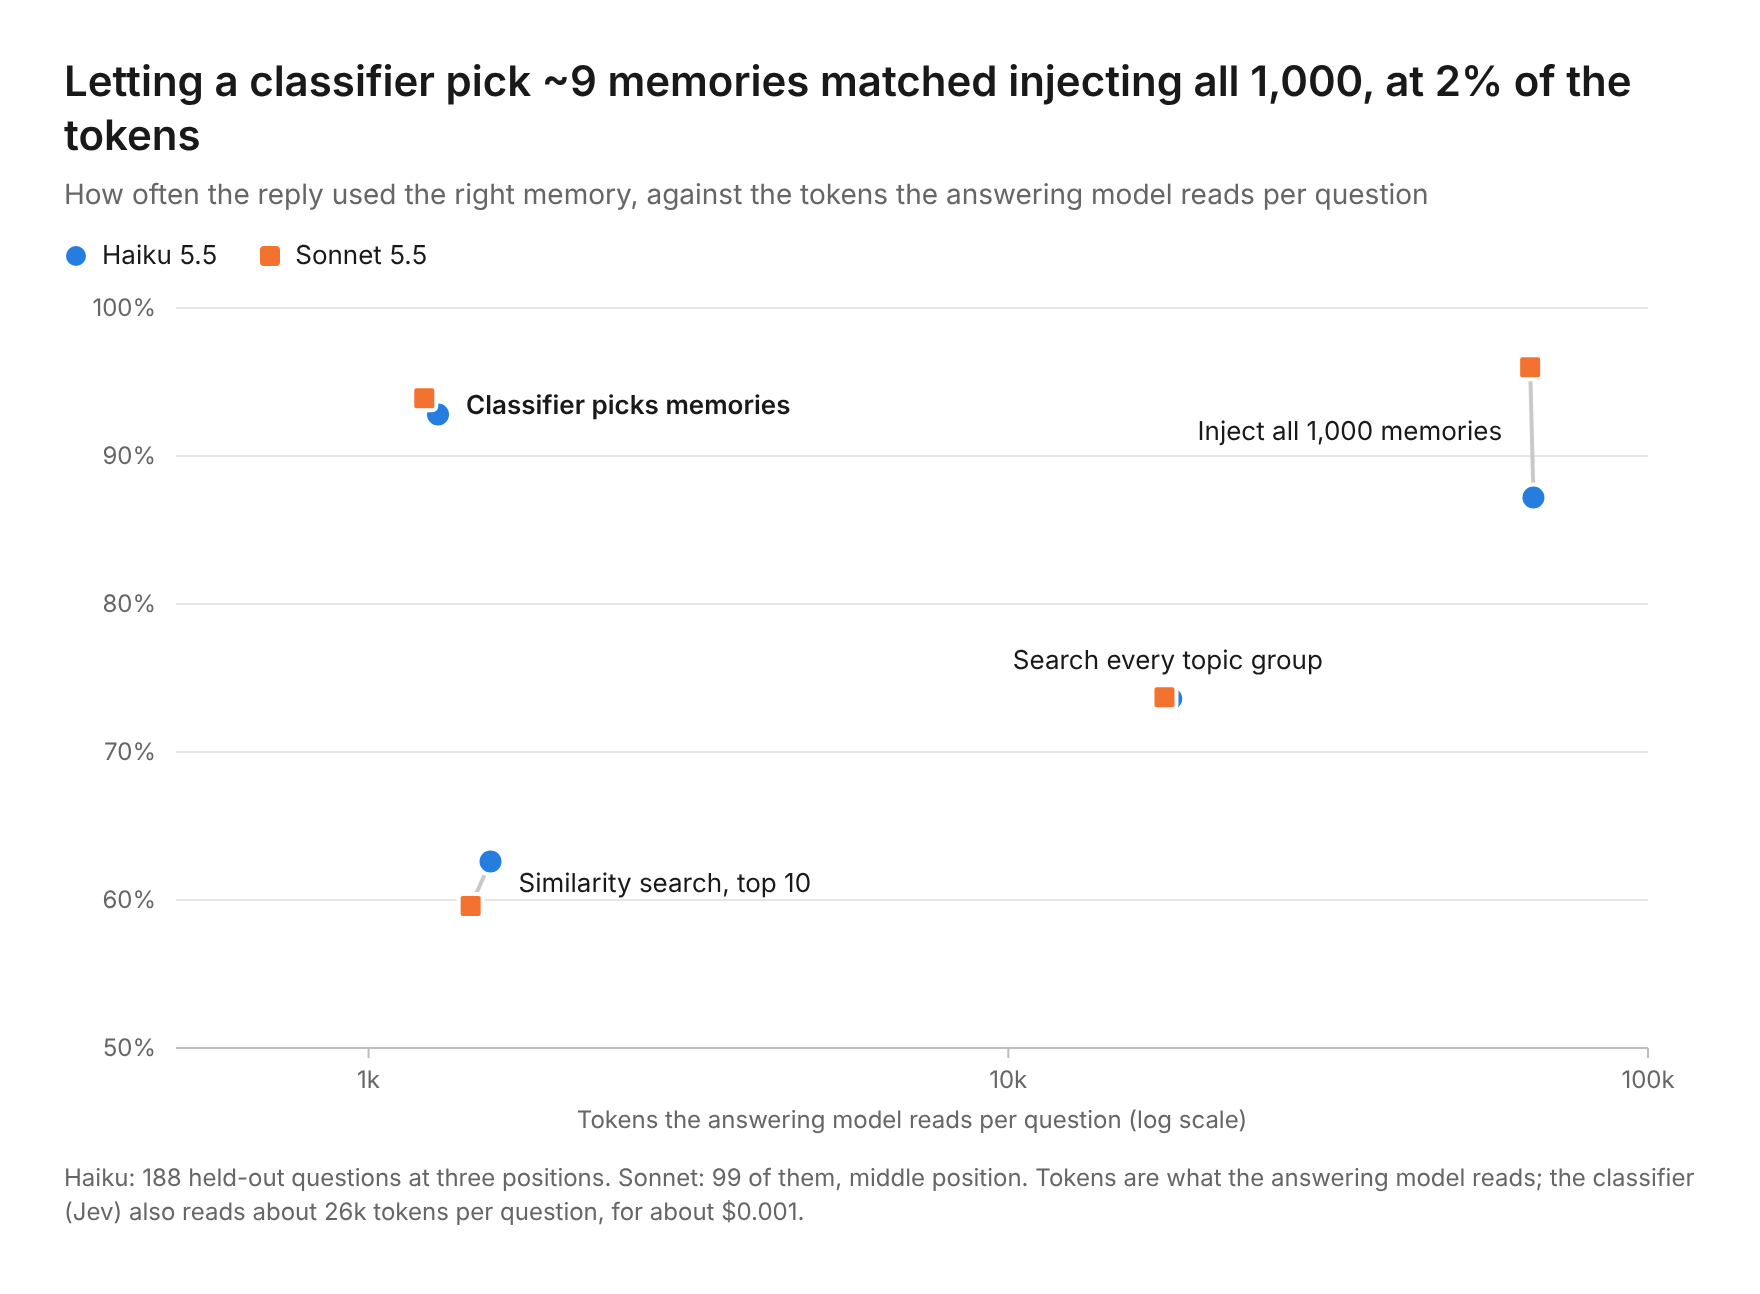
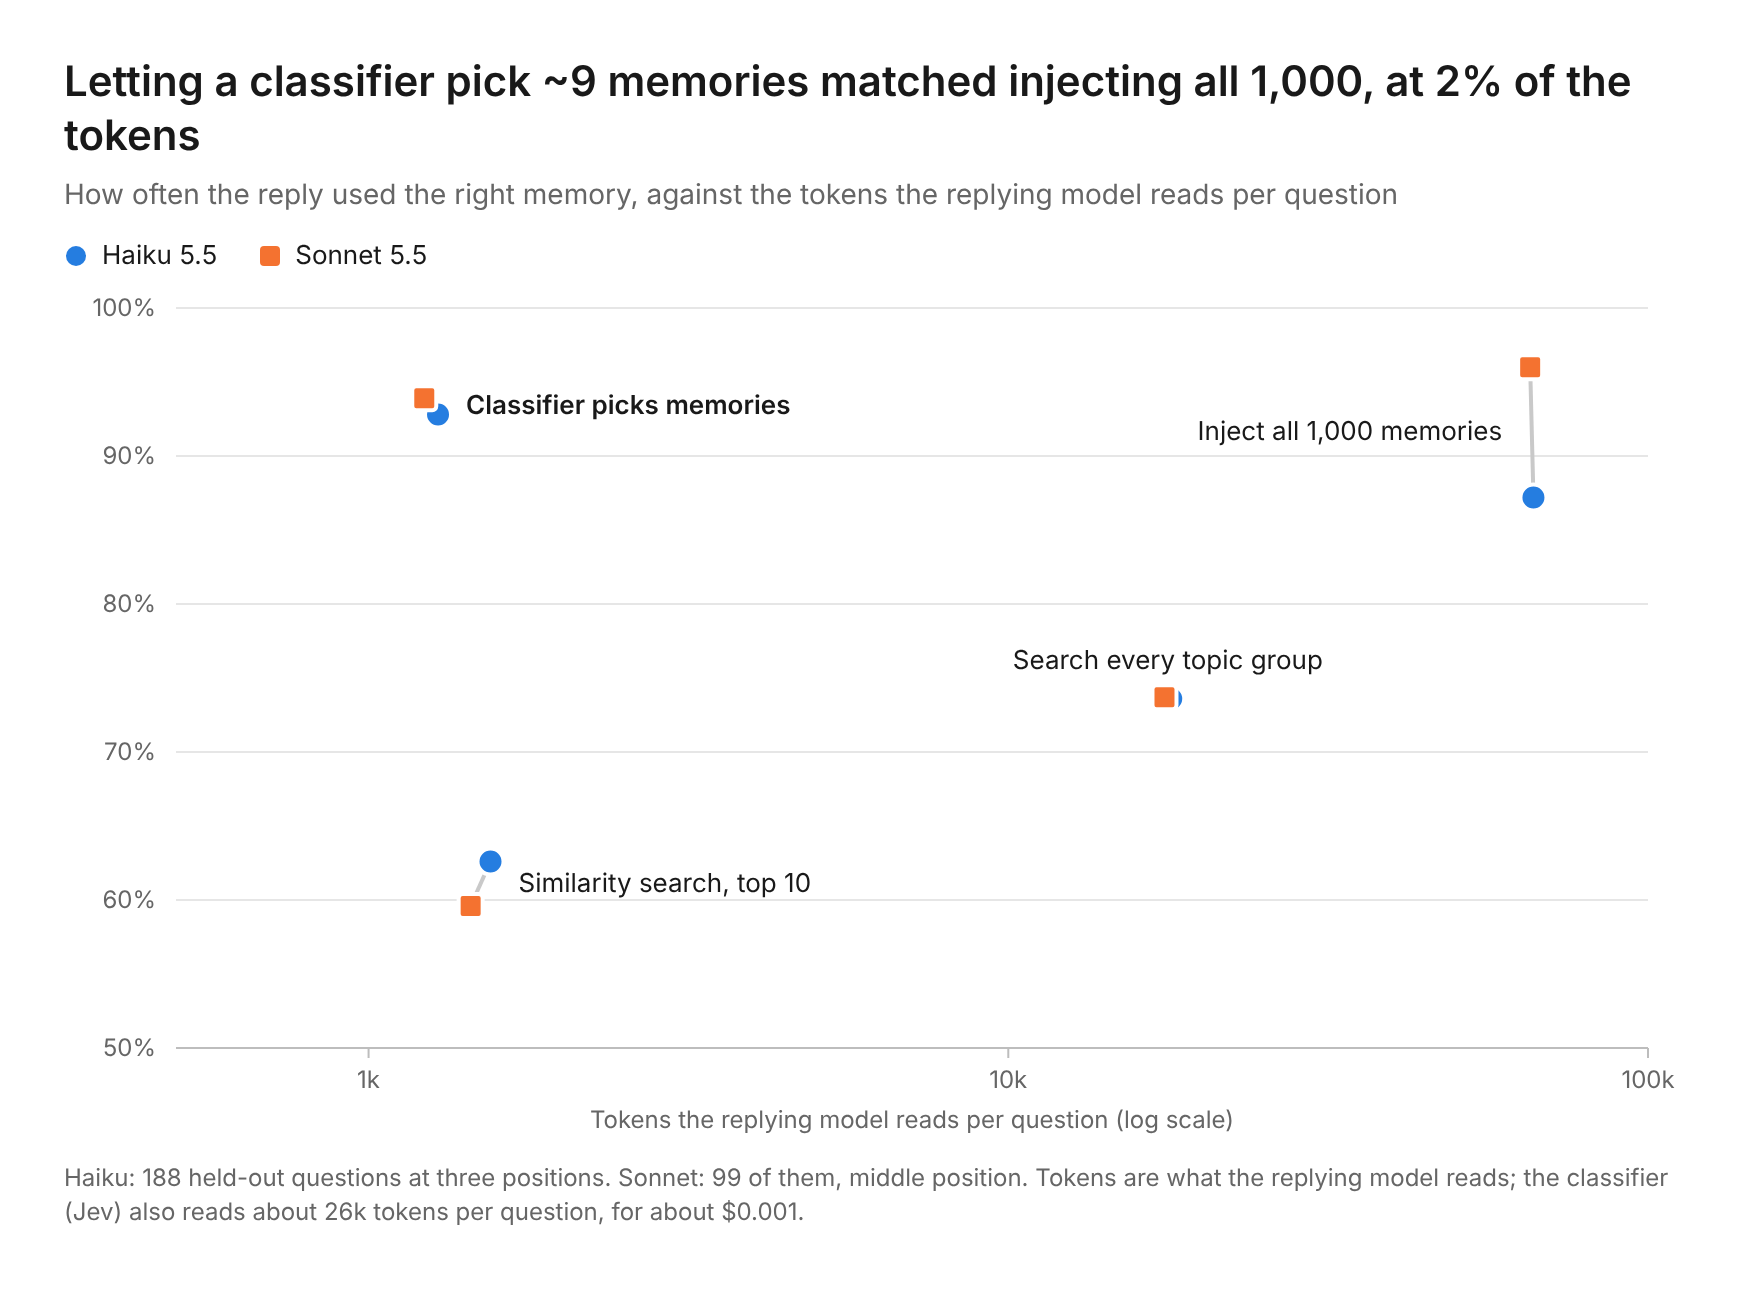
Study 02 post: replace 'answering model' with plainer wording
Claude-Session: https://claude.ai/code/session_016wkBLoxnuhMcjxTCaESD9M

diff --git a/02-memory-routing/posts/scatter.html b/02-memory-routing/posts/scatter.html
@@ -14,13 +14,13 @@ body{margin:0;background:#fff}
 </style></head>
 <body><div class="viz-root" id="root">
 <h1>Letting a classifier pick ~9 memories matched injecting all 1,000, at 2% of the tokens</h1>
-<p class="sub">How often the reply used the right memory, against the tokens the answering model reads per question</p>
+<p class="sub">How often the reply used the right memory, against the tokens the replying model reads per question</p>
 <div class="legend">
  <span><svg width="12" height="12"><circle cx="6" cy="6" r="5" fill="var(--series-1)"/></svg>Haiku 5.5</span>
  <span><svg width="12" height="12"><rect x="1" y="1" width="10" height="10" rx="2" fill="var(--series-2)"/></svg>Sonnet 5.5</span>
 </div>
 <svg id="chart" width="816" height="430" role="img" aria-label="Scatter plot of adherence against answer tokens per question for four memory selection setups on Haiku 5.5 and Sonnet 5.5"></svg>
-<p class="note">Haiku: 188 held-out questions at three positions. Sonnet: 99 of them, middle position. Tokens are what the answering model reads; the classifier (Jev) also reads about 26k tokens per question, for about $0.001.</p>
+<p class="note">Haiku: 188 held-out questions at three positions. Sonnet: 99 of them, middle position. Tokens are what the replying model reads; the classifier (Jev) also reads about 26k tokens per question, for about $0.001.</p>
 <div class="tip" id="tip"></div>
 </div>
 <script>
@@ -41,7 +41,7 @@ for(let v=50;v<=100;v+=10){el("line",{x1:m.l,x2:W-m.r,y1:Y(v),y2:Y(v),stroke:"va
 for(const [v,t] of [[1000,"1k"],[10000,"10k"],[100000,"100k"]]){el("line",{x1:X(v),x2:X(v),y1:H-m.b,y2:H-m.b+5,stroke:"var(--axis)"});
  el("text",{x:X(v),y:H-m.b+20,"text-anchor":"middle","font-size":12,fill:"var(--text-secondary)"},t)}
 el("line",{x1:m.l,x2:W-m.r,y1:H-m.b,y2:H-m.b,stroke:"var(--axis)"});
-el("text",{x:(m.l+W-m.r)/2,y:H-6,"text-anchor":"middle","font-size":12,fill:"var(--text-secondary)"},"Tokens the answering model reads per question (log scale)");
+el("text",{x:(m.l+W-m.r)/2,y:H-6,"text-anchor":"middle","font-size":12,fill:"var(--text-secondary)"},"Tokens the replying model reads per question (log scale)");
 const tip=document.getElementById("tip"),root=document.getElementById("root");root.style.position="relative";
 for(const d of data){
  el("line",{x1:X(d.h[0]),y1:Y(d.h[1]),x2:X(d.n[0]),y2:Y(d.n[1]),stroke:"var(--link)","stroke-width":2});

diff --git a/02-memory-routing/posts/POST.md b/02-memory-routing/posts/POST.md
@@ -26,9 +26,9 @@ The types matter because they look different from the questions they apply to, a
 
 ## 2. What I found (locked)
 
-Using a fast classifier model to pick the memories that matter for each message worked as well as injecting all 1,000. It picked about 9 memories per question and got it right 93% of the time on Haiku and 94% on Sonnet, against 87% and 96% for full injection, with about 98% fewer tokens for the answering model. Plain similarity search, the usual way agents fetch memories, also puts about 10 memories in the prompt, but got it right only 60–63% of the time.
+Using a fast classifier model to pick the memories that matter for each message worked as well as injecting all 1,000. It picked about 9 memories per question and got it right 93% of the time on Haiku and 94% on Sonnet, against 87% and 96% for full injection, with about 98% fewer tokens for the model writing the reply. Plain similarity search, the usual way agents fetch memories, also puts about 10 memories in the prompt, but got it right only 60–63% of the time.
 
-![Accuracy vs. tokens the answering model reads](images/accuracy-vs-tokens.png)
+![Accuracy vs. tokens the replying model reads](images/accuracy-vs-tokens.png)
 
 ## 3. What I expected (locked)
 
